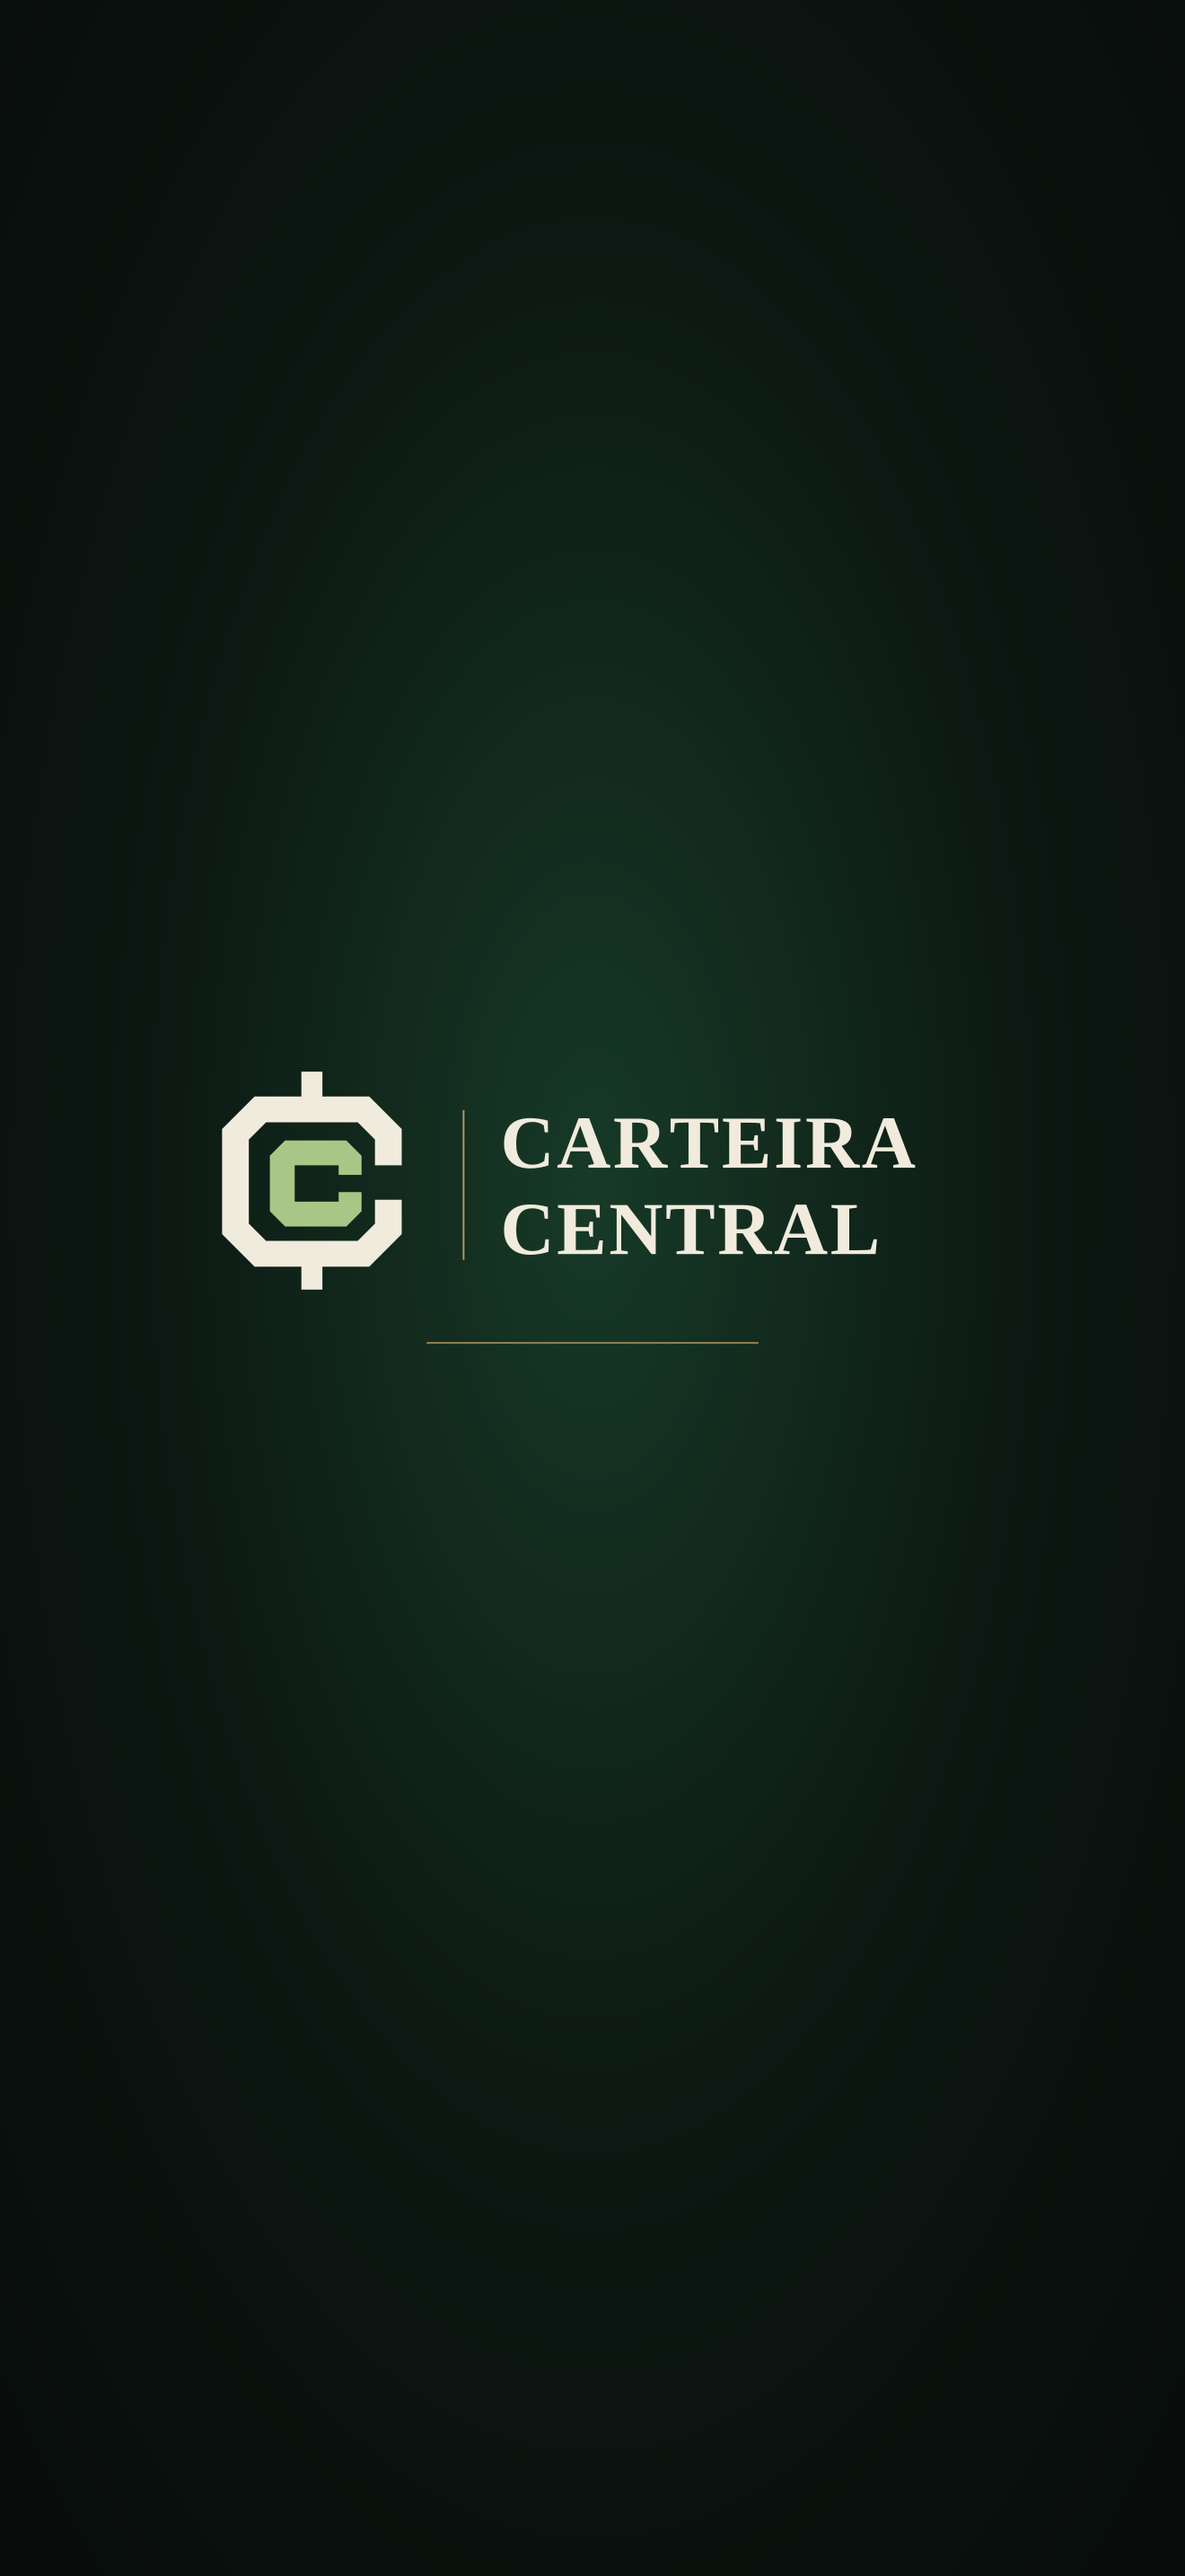
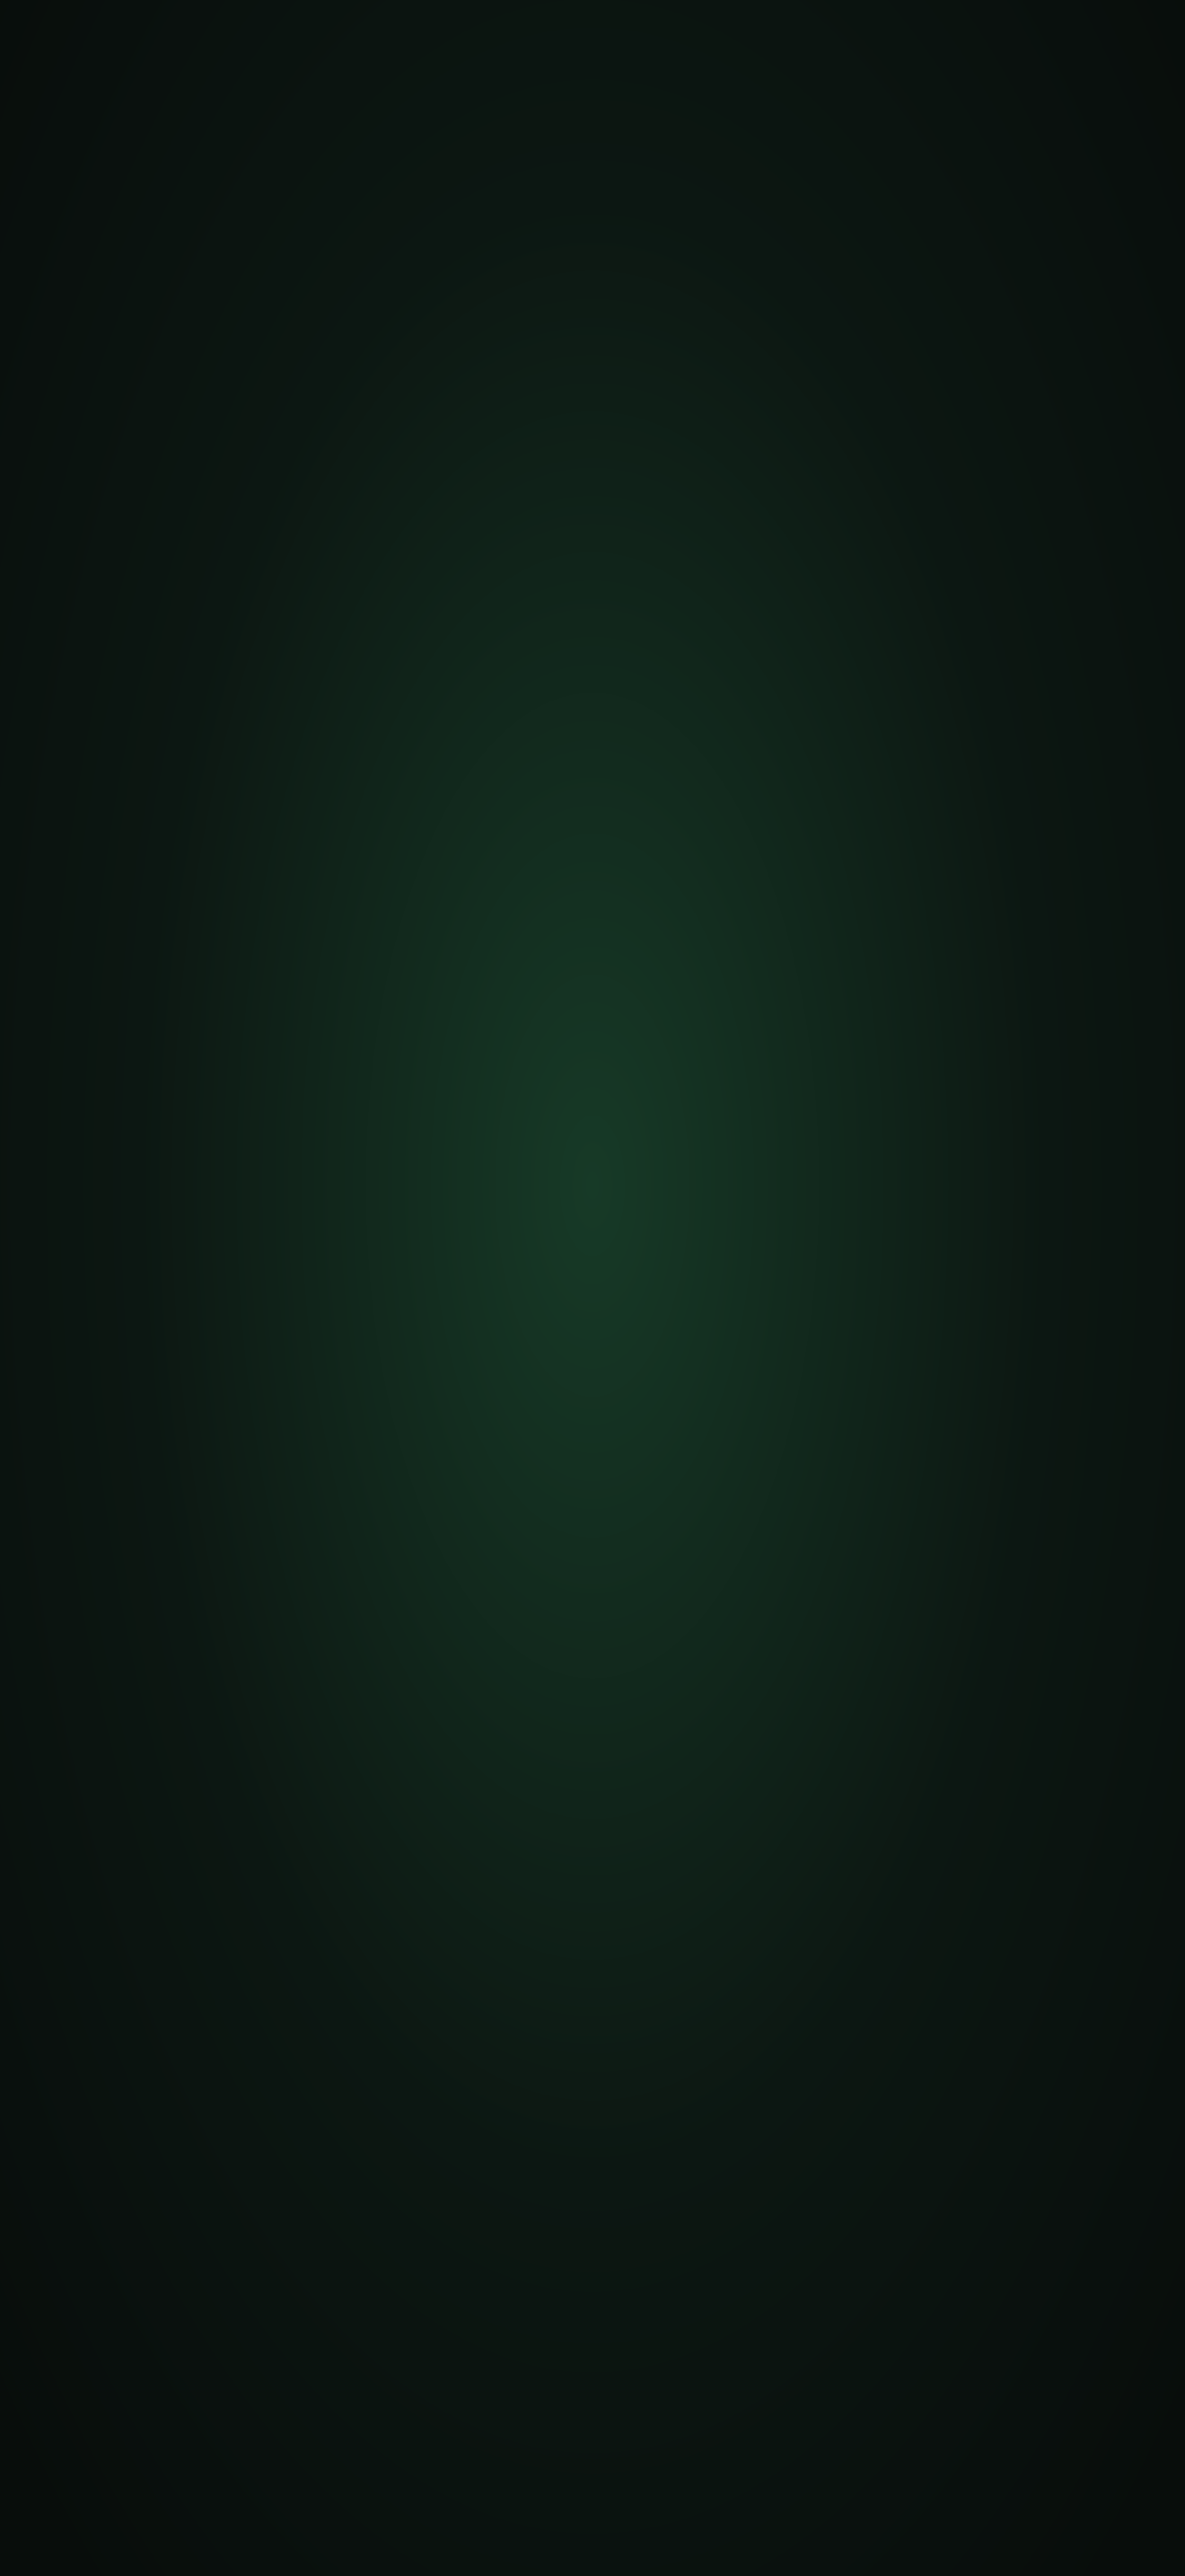
Abertura animada: cunhagem do CC, fio dourado e Carteira Central letra a letra
Claude-Session: https://claude.ai/code/session_017ZBtxxRN7hPQQrzbwSWWGD

Changed region(s): [[0.4038, 0.4344, 0.7765, 0.4965], [0.1864, 0.4034, 0.3417, 0.4965]]

diff --git a/index.html b/index.html
@@ -27,10 +27,24 @@
 <link rel="stylesheet" href="/css/tokens.css">
 <link rel="stylesheet" href="/css/components.css">
 <link rel="stylesheet" href="/css/app.css">
+<style>
+#abertura{position:fixed;inset:0;z-index:100;display:flex;flex-direction:column;align-items:center;justify-content:center;gap:18px;background:radial-gradient(circle at 50% 46%,#173A27,#0C1712 55%,#080D0B);transition:opacity .45s ease}
+#abertura.sai{opacity:0;pointer-events:none}
+.ab-moeda{animation:ab-cunha .7s cubic-bezier(.2,1.5,.4,1) both;filter:drop-shadow(0 8px 20px rgba(0,0,0,.45))}
+.ab-fio{display:block;width:120px;height:1px;background:#B69A60;transform:scaleX(0);animation:ab-fio .55s .45s ease-out forwards}
+.ab-nome{font-family:Georgia,'Times New Roman',serif;color:#F0EBDD;font-size:19px;letter-spacing:6px;line-height:1.35;text-align:center;padding-left:6px}
+.ab-nome span{opacity:0;display:inline-block;transform:translateY(4px);animation:ab-letra .32s ease-out forwards}
+@keyframes ab-cunha{0%{transform:scale(2.2);opacity:0}60%{transform:scale(.92);opacity:1}100%{transform:scale(1)}}
+@keyframes ab-fio{to{transform:scaleX(1)}}
+@keyframes ab-letra{to{opacity:1;transform:none}}
+@media (prefers-reduced-motion:reduce){.ab-moeda,.ab-fio,.ab-nome span{animation:none;opacity:1;transform:none}}
+</style>
 </head>
 <body>
-<div id="abertura" aria-hidden="true" style="position:fixed;inset:0;z-index:100;background:radial-gradient(circle at 50% 46%,#173A27,#0C1712 55%,#080D0B);display:flex;align-items:center;justify-content:center;transition:opacity .45s ease">
-  <img src="/assets/marca-horizontal.svg" alt="" style="width:68%;max-width:360px;position:relative;filter:drop-shadow(0 6px 18px rgba(0,0,0,.4))">
+<div id="abertura" aria-hidden="true">
+  <svg class="ab-moeda" viewBox="0 0 256 256" width="96" height="96"><path fill="#F0EBDD" d="M117 14H139V40H188L222 74V112H194V85L176 67H80L62 85V173L80 191H176L194 173V148H222V184L188 218H139V242H117V218H68L34 184V74L68 40H117Z"/><path fill="#A8C686" d="M100 86H164L180 102V122H156V112H110V150H156V140H180V160L164 176H100L84 160V102Z"/></svg>
+  <i class="ab-fio"></i>
+  <div class="ab-nome"><div><span style="animation-delay:0.700s">C</span><span style="animation-delay:0.745s">A</span><span style="animation-delay:0.790s">R</span><span style="animation-delay:0.835s">T</span><span style="animation-delay:0.880s">E</span><span style="animation-delay:0.925s">I</span><span style="animation-delay:0.970s">R</span><span style="animation-delay:1.015s">A</span></div><div><span style="animation-delay:1.060s">C</span><span style="animation-delay:1.105s">E</span><span style="animation-delay:1.150s">N</span><span style="animation-delay:1.195s">T</span><span style="animation-delay:1.240s">R</span><span style="animation-delay:1.285s">A</span><span style="animation-delay:1.330s">L</span></div></div>
 </div>
 <div id="app" class="cc-theme"><p class="carregando">Carregando…</p></div>
 <script type="module" src="/js/app.js"></script>

diff --git a/sw.js b/sw.js
@@ -1,5 +1,5 @@
 // Guarda só a "casca" do aplicativo para abrir sem rede. Dados financeiros nunca ficam em cache aqui.
-const CACHE = "casca-v9";
+const CACHE = "casca-v10";
 const CASCA = ["/", "/css/tokens.css", "/css/components.css", "/css/app.css", "/js/app.js", "/js/base.js", "/js/dados.js", "/js/calculos.js", "/js/icones.js", "/js/marca.js",
   "/js/tela-inicio.js", "/js/tela-cartoes.js", "/js/tela-planejar.js", "/js/tela-mais.js",
   "/assets/monograma.svg", "/assets/marca-horizontal.svg", "/assets/padrao.svg", "/assets/apple-touch-icon.png", "/manifest.webmanifest"];

diff --git a/js/app.js b/js/app.js
@@ -96,7 +96,7 @@ function fecharAbertura() {
   const a = document.getElementById("abertura");
   if (!a || a.dataset.saindo) return;
   a.dataset.saindo = "1";
-  const esperar = Math.max(0, 650 - (performance.now() - (window.__inicio || 0)));
+  const esperar = Math.max(0, 1650 - performance.now()); // deixa a cunhagem terminar
   setTimeout(() => { a.classList.add("sai"); setTimeout(() => a.remove(), 450); }, esperar);
 }
 
